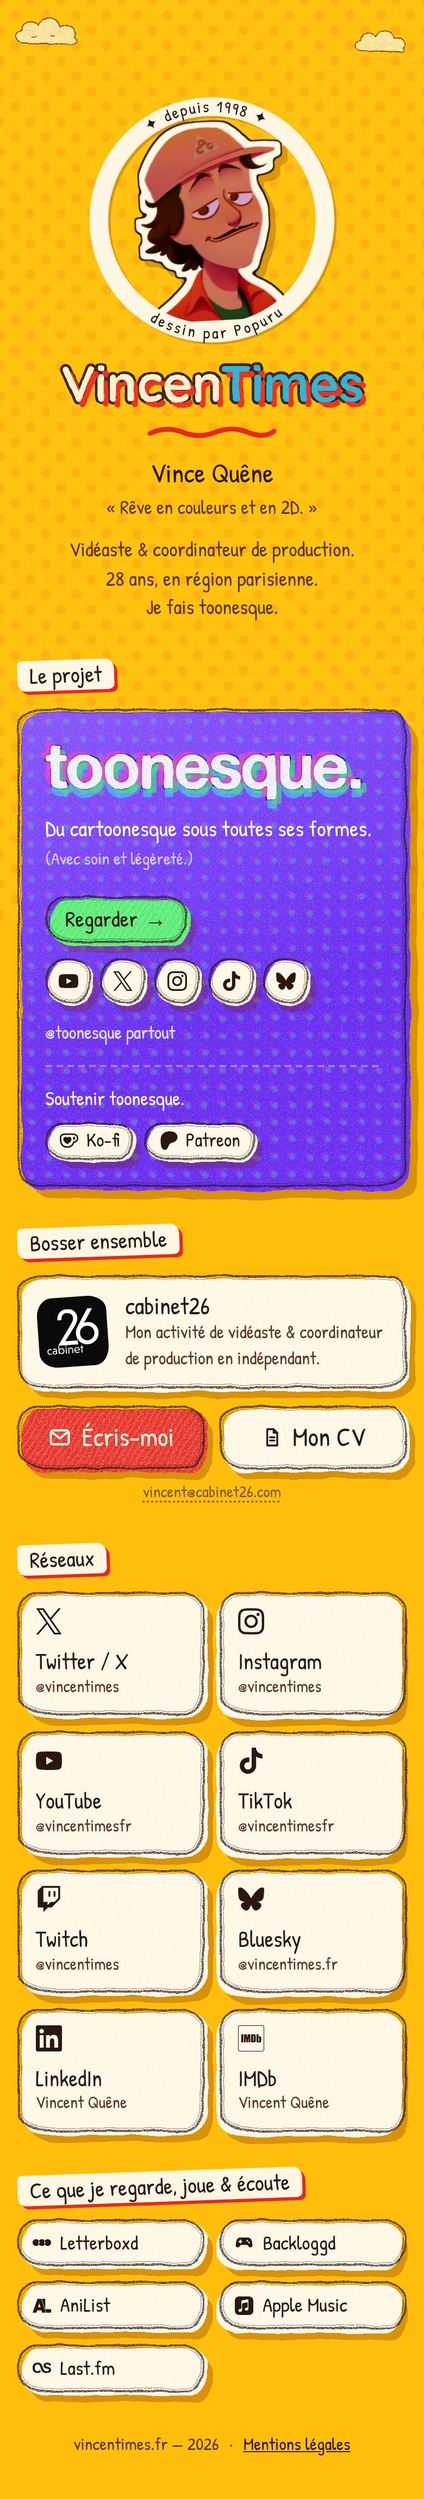
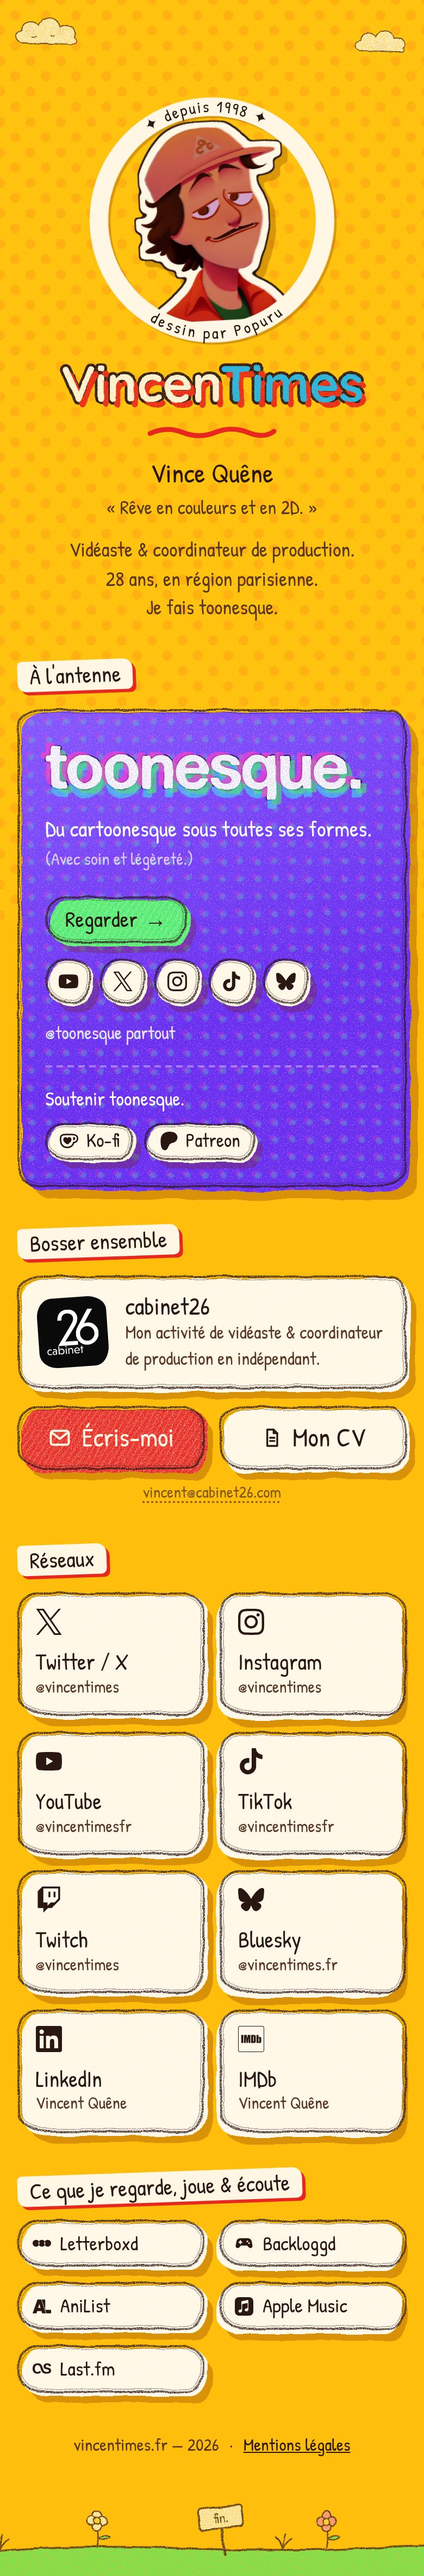
« À l'antenne » pour toonesque. ; sol dessiné en bas de page
- Titre de section « Le projet » → « À l'antenne »
- Liseré d'herbe, fleurs et panneau « fin. » au trait crayon, en écho aux nuages du haut

Claude-Session: https://claude.ai/code/session_01LKzVBaJrLPfnWSfihrEFNx

diff --git a/index.html b/index.html
@@ -161,7 +161,7 @@
     <div class="main">
 
       <section class="reveal" style="--i:2" aria-labelledby="t-projet">
-        <h2 class="section-title" id="t-projet">Le projet</h2>
+        <h2 class="section-title" id="t-projet">À l'antenne</h2>
         <div class="feature sketch">
           <div>
             <p class="feature-title">toonesque.</p>
@@ -276,6 +276,20 @@
     </div>
 
   </main>
+
+  <!-- Sol dessiné qui répond aux nuages du haut -->
+  <div class="ground" aria-hidden="true">
+    <svg viewBox="0 0 1200 96" preserveAspectRatio="xMidYMax slice"><g filter="url(#pencil)">
+      <path d="M-10 70 C 120 58 240 76 380 66 C 520 56 640 74 780 64 C 920 55 1060 72 1210 62 L1210 110 L-10 110 Z" fill="#4dea6b" stroke="#2b1712" stroke-width="2.2" stroke-linejoin="round"/>
+      <path d="M150 66 q-3 -10 -8 -14 M150 66 q1 -12 3 -17 M150 66 q4 -9 10 -12" fill="none" stroke="#2b1712" stroke-width="1.8" stroke-linecap="round"/><path d="M360 66 q-3 -10 -8 -14 M360 66 q1 -12 3 -17 M360 66 q4 -9 10 -12" fill="none" stroke="#2b1712" stroke-width="1.8" stroke-linecap="round"/><path d="M680 66 q-3 -10 -8 -14 M680 66 q1 -12 3 -17 M680 66 q4 -9 10 -12" fill="none" stroke="#2b1712" stroke-width="1.8" stroke-linecap="round"/><path d="M850 66 q-3 -10 -8 -14 M850 66 q1 -12 3 -17 M850 66 q4 -9 10 -12" fill="none" stroke="#2b1712" stroke-width="1.8" stroke-linecap="round"/><path d="M1060 66 q-3 -10 -8 -14 M1060 66 q1 -12 3 -17 M1060 66 q4 -9 10 -12" fill="none" stroke="#2b1712" stroke-width="1.8" stroke-linecap="round"/>
+      <path d="M70 40 Q72 54 70 64" fill="none" stroke="#2b1712" stroke-width="1.8" stroke-linecap="round"/><path d="M71 54 q8 -6 13 -2 q-6 5 -13 2z" fill="#4dea6b" stroke="#2b1712" stroke-width="1.5" stroke-linejoin="round"/><circle cx="70" cy="28" r="5.2" fill="#ff86ad" stroke="#2b1712" stroke-width="1.6"/><circle cx="76" cy="34" r="5.2" fill="#ff86ad" stroke="#2b1712" stroke-width="1.6"/><circle cx="70" cy="40" r="5.2" fill="#ff86ad" stroke="#2b1712" stroke-width="1.6"/><circle cx="64" cy="34" r="5.2" fill="#ff86ad" stroke="#2b1712" stroke-width="1.6"/><circle cx="70" cy="34" r="3.6" fill="#ffd84d" stroke="#2b1712" stroke-width="1.5"/><path d="M260 40 Q262 54 260 64" fill="none" stroke="#2b1712" stroke-width="1.8" stroke-linecap="round"/><path d="M261 54 q8 -6 13 -2 q-6 5 -13 2z" fill="#4dea6b" stroke="#2b1712" stroke-width="1.5" stroke-linejoin="round"/><circle cx="260" cy="28" r="5.2" fill="#1cb4ee" stroke="#2b1712" stroke-width="1.6"/><circle cx="266" cy="34" r="5.2" fill="#1cb4ee" stroke="#2b1712" stroke-width="1.6"/><circle cx="260" cy="40" r="5.2" fill="#1cb4ee" stroke="#2b1712" stroke-width="1.6"/><circle cx="254" cy="34" r="5.2" fill="#1cb4ee" stroke="#2b1712" stroke-width="1.6"/><circle cx="260" cy="34" r="3.6" fill="#ffd84d" stroke="#2b1712" stroke-width="1.5"/><path d="M470 40 Q472 54 470 64" fill="none" stroke="#2b1712" stroke-width="1.8" stroke-linecap="round"/><path d="M471 54 q8 -6 13 -2 q-6 5 -13 2z" fill="#4dea6b" stroke="#2b1712" stroke-width="1.5" stroke-linejoin="round"/><circle cx="470" cy="28" r="5.2" fill="#fff6e4" stroke="#2b1712" stroke-width="1.6"/><circle cx="476" cy="34" r="5.2" fill="#fff6e4" stroke="#2b1712" stroke-width="1.6"/><circle cx="470" cy="40" r="5.2" fill="#fff6e4" stroke="#2b1712" stroke-width="1.6"/><circle cx="464" cy="34" r="5.2" fill="#fff6e4" stroke="#2b1712" stroke-width="1.6"/><circle cx="470" cy="34" r="3.6" fill="#ffd84d" stroke="#2b1712" stroke-width="1.5"/><path d="M730 40 Q732 54 730 64" fill="none" stroke="#2b1712" stroke-width="1.8" stroke-linecap="round"/><path d="M731 54 q8 -6 13 -2 q-6 5 -13 2z" fill="#4dea6b" stroke="#2b1712" stroke-width="1.5" stroke-linejoin="round"/><circle cx="730" cy="28" r="5.2" fill="#ff86ad" stroke="#2b1712" stroke-width="1.6"/><circle cx="736" cy="34" r="5.2" fill="#ff86ad" stroke="#2b1712" stroke-width="1.6"/><circle cx="730" cy="40" r="5.2" fill="#ff86ad" stroke="#2b1712" stroke-width="1.6"/><circle cx="724" cy="34" r="5.2" fill="#ff86ad" stroke="#2b1712" stroke-width="1.6"/><circle cx="730" cy="34" r="3.6" fill="#ffd84d" stroke="#2b1712" stroke-width="1.5"/><path d="M960 40 Q962 54 960 64" fill="none" stroke="#2b1712" stroke-width="1.8" stroke-linecap="round"/><path d="M961 54 q8 -6 13 -2 q-6 5 -13 2z" fill="#4dea6b" stroke="#2b1712" stroke-width="1.5" stroke-linejoin="round"/><circle cx="960" cy="28" r="5.2" fill="#e8281e" stroke="#2b1712" stroke-width="1.6"/><circle cx="966" cy="34" r="5.2" fill="#e8281e" stroke="#2b1712" stroke-width="1.6"/><circle cx="960" cy="40" r="5.2" fill="#e8281e" stroke="#2b1712" stroke-width="1.6"/><circle cx="954" cy="34" r="5.2" fill="#e8281e" stroke="#2b1712" stroke-width="1.6"/><circle cx="960" cy="34" r="3.6" fill="#ffd84d" stroke="#2b1712" stroke-width="1.5"/><path d="M1130 40 Q1132 54 1130 64" fill="none" stroke="#2b1712" stroke-width="1.8" stroke-linecap="round"/><path d="M1131 54 q8 -6 13 -2 q-6 5 -13 2z" fill="#4dea6b" stroke="#2b1712" stroke-width="1.5" stroke-linejoin="round"/><circle cx="1130" cy="28" r="5.2" fill="#1cb4ee" stroke="#2b1712" stroke-width="1.6"/><circle cx="1136" cy="34" r="5.2" fill="#1cb4ee" stroke="#2b1712" stroke-width="1.6"/><circle cx="1130" cy="40" r="5.2" fill="#1cb4ee" stroke="#2b1712" stroke-width="1.6"/><circle cx="1124" cy="34" r="5.2" fill="#1cb4ee" stroke="#2b1712" stroke-width="1.6"/><circle cx="1130" cy="34" r="3.6" fill="#ffd84d" stroke="#2b1712" stroke-width="1.5"/>
+      <g transform="translate(590 22) rotate(-6)">
+        <path d="M18 18 L19 52" stroke="#2b1712" stroke-width="3" stroke-linecap="round"/>
+        <rect x="-6" y="-2" width="50" height="24" rx="4" fill="#fff6e4" stroke="#2b1712" stroke-width="2"/>
+        <text x="19" y="16" text-anchor="middle" font-family="Patrick Hand, cursive" font-size="17" fill="#2b1712">fin.</text>
+      </g>
+    </g></svg>
+  </div>
 
 <script src="/assets/site.js" defer></script>
 

diff --git a/assets/style.css b/assets/style.css
@@ -148,6 +148,16 @@ a { color: inherit; }
 .cloud-2 .float { animation-duration: 9s; animation-delay: -3s; }
 @keyframes float { 50% { transform: translate(8px, -5px); } }
 
+/* Sol dessiné en bas de page (répond aux nuages) */
+.ground {
+  width: 100%;
+  margin-top: -0.5rem;
+  line-height: 0;
+  pointer-events: none;
+}
+.ground svg { display: block; width: 100%; height: 96px; }
+@media (max-width: 959px) { .ground svg { height: 78px; } }
+
 /* ---------- Mise en page ---------- */
 
 .page {
